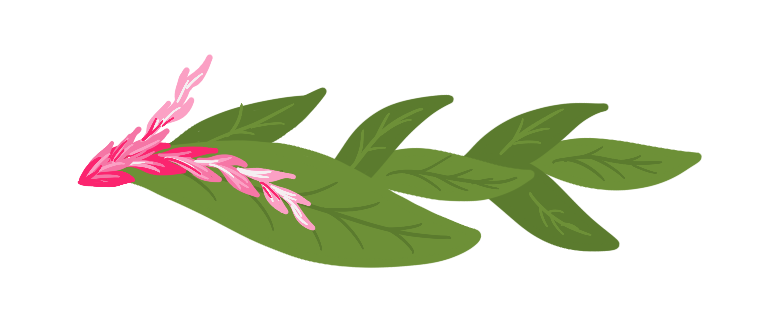
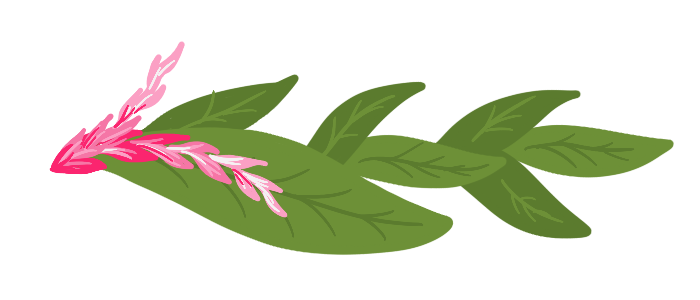
Add images and some more styling
to bring the website to life!

diff --git a/wedding.html b/wedding.html
@@ -40,8 +40,13 @@
         </div>
       </div>
     </div>
+
     <div id="schedule" class="section">
-      <h1><span>Schedule</span></h1>
+      <div class="row nowrap">
+        <img src="assets\images\garland_1.png" class="heading-garland">
+        <h1>Schedule</h1>
+        <img src="assets\images\garland_7.png" class="heading-garland">
+      </div>
       <p>Here is what to expect during our wedding weekend. We will also have a schedule available when you arrive. We can't wait to celebrate with you!</p>
       <div class="row">
         <div class="column">
@@ -49,10 +54,9 @@
           <h3>Friday, May 8, 2020<br>7:00 PM</h3>
         </div>
         <div class="column">
-          <img src="\assets\images\Crab.png" class="icon" alt="icon">
+          <img src="assets\images\Crab.png" class="icon" alt="icon">
           <p>Sapphire Beach Resort<br>6720 Estate Smith Bay<br>St Thomas 00802, USVI</p>
-          <a href="https://www.google.com/maps/place/Sapphire+Beach+Condominium+Resort/@18.3336236,-64.8512908,17z/data=!3m1!4b1!4m8!3m7!1s0x8c0511b1b5f65f5d:0x6cc38f2bed1748c4!5m2!4m1!1i2!8m2!3d18.3336185!4d-64.8491021" target="_blank">Map</a>
-          <button>Add to Calendar</button>
+          <a class="button" href="https://www.google.com/maps/place/Sapphire+Beach+Condominium+Resort/@18.3336236,-64.8512908,17z/data=!3m1!4b1!4m8!3m7!1s0x8c0511b1b5f65f5d:0x6cc38f2bed1748c4!5m2!4m1!1i2!8m2!3d18.3336185!4d-64.8491021" target="_blank">Map</a>
         </div>
       </div>
       <div class="hr-minor"></div>
@@ -64,8 +68,7 @@
         <div class="column">
           <img src="assets\images\TheRing.png" class="icon" alt="icon">
           <p>Lindquist Beach<br>St Thomas 00802, USVI</p>
-          <button>Map</button>
-          <button>Add to Calendar</button>
+          <a class="button" href="https://www.google.com/maps?q=lindquist+beach+address&rlz=1C1GGRV_enUS789US789&um=1&ie=UTF-8&sa=X&ved=0ahUKEwi7r7-HtZfkAhXEna0KHSTNA5wQ_AUIESgB" target="_blank">Map</a>
         </div>
       </div>
       <div class="hr-minor"></div>
@@ -77,13 +80,17 @@
         <div class="column">
           <img src="assets\images\whaletail_sunset.png" class="icon" alt="icon">
           <p>Sapphire Beach Resort<br>6720 Estate Smith Bar<br>St Thomas 00802, USVI</p>
-          <button>Map</button>
-          <button>Add to Calendar</button>
+          <a class="button" href="https://www.google.com/maps/place/Sapphire+Beach+Condominium+Resort/@18.3336236,-64.8512908,17z/data=!3m1!4b1!4m8!3m7!1s0x8c0511b1b5f65f5d:0x6cc38f2bed1748c4!5m2!4m1!1i2!8m2!3d18.3336185!4d-64.8491021" target="_blank">Map</a>
         </div>
       </div>
     </div>
+
     <div id="travel" class="section">
-      <h1><span>Travel</span></h1>
+      <div class="row nowrap">
+        <img src="assets\images\garland_6.png" class="heading-garland">
+        <h1>Travel</h1>
+        <img src="assets\images\garland_2.png" class="heading-garland">
+      </div>
       <p>Some recommendations for booking flights and accommodations.</p>
       <div class="row">
         <div class="column">
@@ -92,8 +99,6 @@
           <h3>Saint Thomas, U.S. Virgin Islands<br>STT</h3>
         </div>
         <div class="column">
-          <!-- <h4>HOME [airplane image] STT</h4> -->
-          <!-- https://www.google.com/flights -->
           <p class="left-align">We like to use <a href="https://www.google.com/flights#flt=/m/0ftxw.STT.2020-05-07*STT./m/0ftxw.2020-05-15;c:USD;e:1;sd:1;t:f" target="_blank">Google Flights</a> to track flight prices and see prices from various airlines.</p>
           <p class="left-align">The one stop flights that we have found include:</p>
           <ul class="left-align">
@@ -162,8 +167,13 @@
         </div>
       </div>
     </div>
+
     <div id="stthomas" class="section">
-      <h1><span>St Thomas, USVI</span></h1>
+      <div class="row nowrap">
+        <img src="assets\images\garland_3.png" class="heading-garland mirror">
+        <h1>St Thomas, USVI</h1>
+        <img src="assets\images\garland_5.png" class="heading-garland mirror">
+      </div>
       <p>Some of the things that we will be doing on the island include the following. We hope you have a blast!</p>
         <!-- <div class="section-overlay"> -->
         <div class="row">
@@ -199,8 +209,13 @@
         </div>
       <!-- </div> -->
     </div>
+
     <div id="rsvp" class="section">
-      <h1><span>RSVP</span></h1>
+      <div class="row nowrap">
+        <img src="assets\images\garland_4.png" class="heading-garland">
+        <h1>RSVP</h1>
+        <img src="assets\images\garland_5.png" class="heading-garland rotate">
+      </div>
       <p>We will be having 2 events, each of which requires an RSVP. Please make sure to scroll to the bottom of this section and press <strong>Submit RSVP</strong>.</p>
       <div class="row">
         <div class="column">
@@ -277,7 +292,11 @@
     </div>
 
     <div id="photos" class="section">
-      <h1><span>Photos</span></h1>
+      <div class="row nowrap">
+        <img src="assets\images\garland_6.png" class="heading-garland">
+        <h1>Photos</h1>
+        <img src="assets\images\garland_2.png" class="heading-garland">
+      </div>
       <div class="slideshow-container">
         <div class="mySlides fade column">
           <img src="assets\images\brazil-rio.jpeg">
@@ -330,7 +349,11 @@
     </div>
 
     <div id="wedding-party" class="section">
-      <h1><span>Wedding Party</span></h1>
+      <div class="row nowrap">
+        <img src="assets\images\garland_7.png" class="heading-garland mirror">
+        <h1>Wedding Party</h1>
+        <img src="assets\images\garland_7.png" class="heading-garland">
+      </div>
       <div class="row">
         <div class="column">
           <img src="assets/images/Lauren.png" alt="Lauren Byers">
@@ -346,8 +369,13 @@
         </div>
       </div>
     </div>
+
     <div id="countdown" class="section">
-      <h1><span>Countdown</span></h1>
+      <div class="row nowrap">
+        <img src="assets\images\garland_1.png" class="heading-garland">
+        <h1>Countdown</h1>
+        <img src="assets\images\garland_3.png" class="heading-garland">
+      </div>
       <div class="row">
         <div class="circle large circle-background">
           <span>
@@ -375,8 +403,13 @@
         </div>
       </div>
     </div>
+
     <div id="faqs" class="section">
-      <h1><span>FAQs</span></h1>
+      <div class="row nowrap">
+        <img src="assets\images\garland_3.png" class="heading-garland rotate">
+        <h1>FAQs</h1>
+        <img src="assets\images\garland_2.png" class="heading-garland">
+      </div>
       <p>Frequently asked questions</p>
       <div class="row">
         <div class="column">

diff --git a/assets/css/styles.css b/assets/css/styles.css
@@ -58,13 +58,6 @@ header p {
 h1 {
   font-size: 175%;
   text-align: center;
-  background: linear-gradient(45deg, #FF493E, #DD2594);
-  line-height: 2px;
-}
-
-h1 span {
-  background: white;
-  padding: 0 1em;
 }
 
 h2 {
@@ -177,6 +170,10 @@ li {
   width: 100%;
   justify-content: center;
   margin: 0;
+}
+
+.row.nowrap {
+  flex-wrap: nowrap;
 }
 
 .column {
@@ -318,6 +315,21 @@ button:hover span {
   background-color: transparent;
 }
 
+.button {
+  background: #D83A76;
+  color: white;
+  text-transform: uppercase;
+  padding: .5em 2em;
+  border-radius: 4px;
+  margin: 1em;
+}
+
+.button:hover {
+  transition: background .5s ease;
+  background: #FF2171;
+  color: white;
+}
+
 hr {
   width: 70%;
   border: none;
@@ -434,6 +446,18 @@ input, textarea {
   max-height: 150px;
   max-width: 150px;
   object-fit: contain;
+}
+
+.heading-garland {
+  max-height: 100px;
+}
+
+.heading-garland.mirror {
+  transform: scaleX(-1);
+}
+
+.heading-garland.rotate {
+  transform: rotate(180deg);
 }
 
 .section-overlay {
